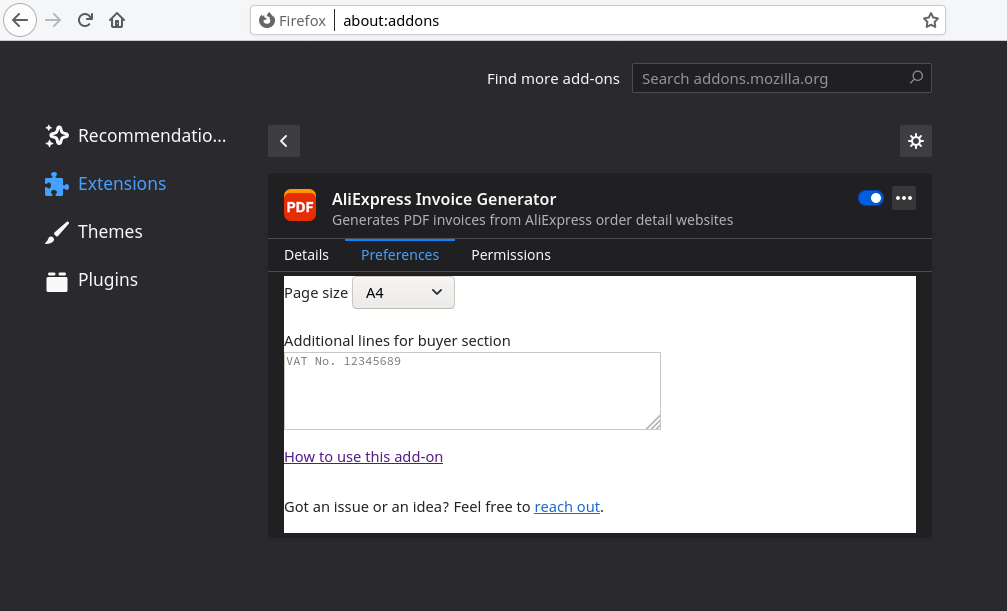
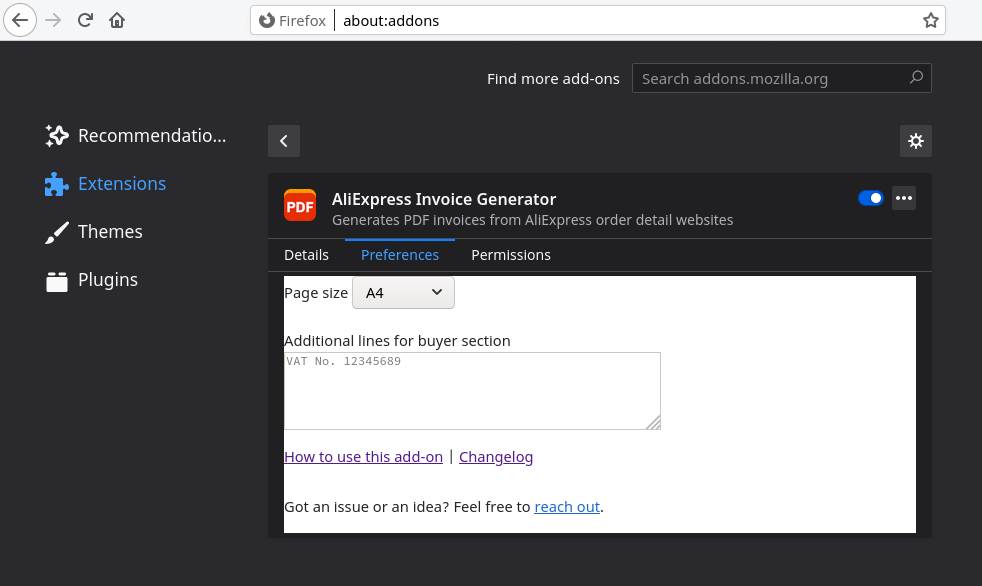
Add changelog link

diff --git a/views/options.html b/views/options.html
@@ -37,7 +37,7 @@
       <textarea id="buyer-extra-info" name="buyer-extra-info" rows="4" cols="50" placeholder="VAT No. 12345689"></textarea>
     </form>
     <p>
-      <a target="_blank" href="onboard.html">How to use this add-on</a>
+      <a target="_blank" href="onboard.html">How to use this add-on</a> | <a target="_blank" href="upboard.html">Changelog</a>
     </p>
     <p>
       Got an issue or an idea? Feel free to <a href="mailto:n0-0ne+aliexpress-invoice-generator@mailbox.org">reach out</a>.

diff --git a/CHANGELOG.md b/CHANGELOG.md
@@ -11,6 +11,7 @@ The format is based on [Keep a Changelog] and this project adheres to [Semantic 
 - Inline settings button on order details page
 - Feedback paragraph in preferences
 - New onboarding page to explain usage
+- Onboarding page and changelog linked from preferences
 
 ### Changed
 
